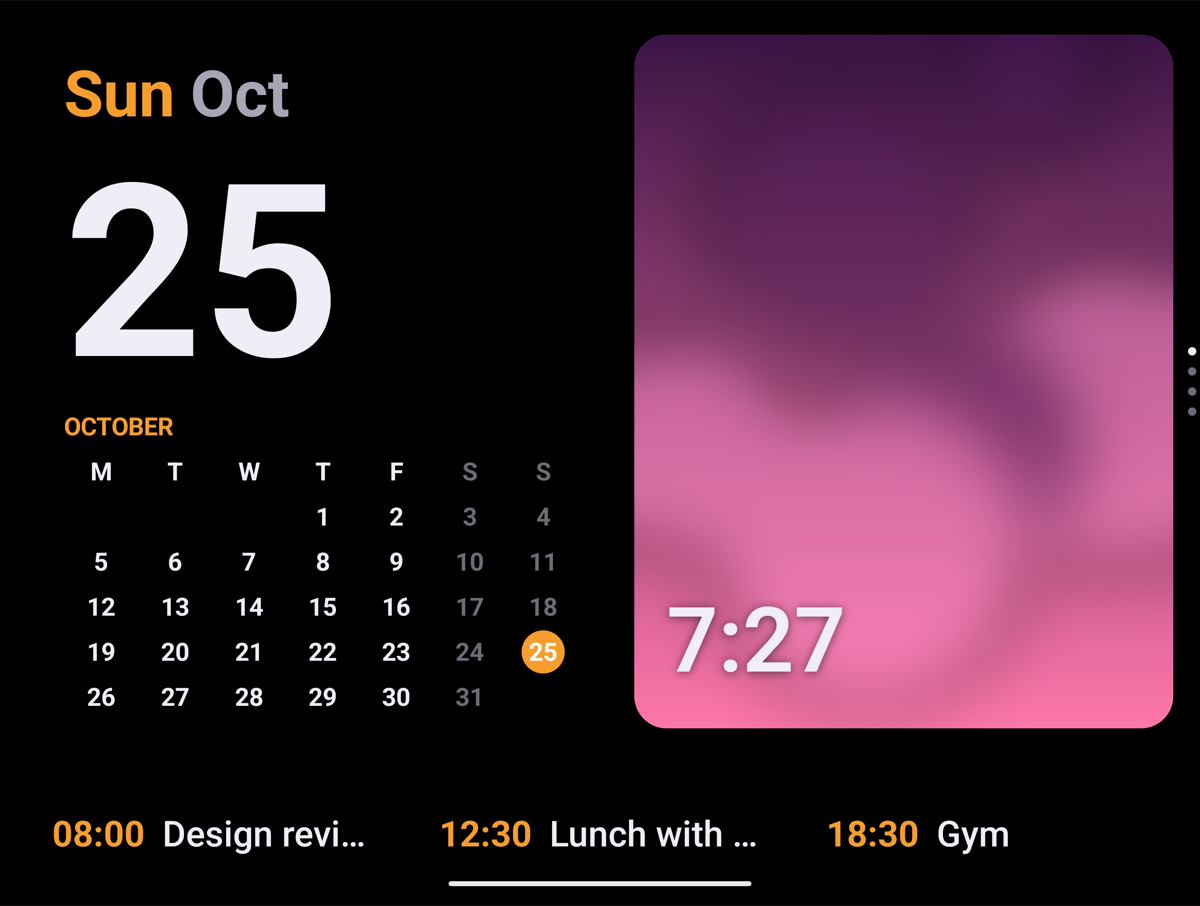
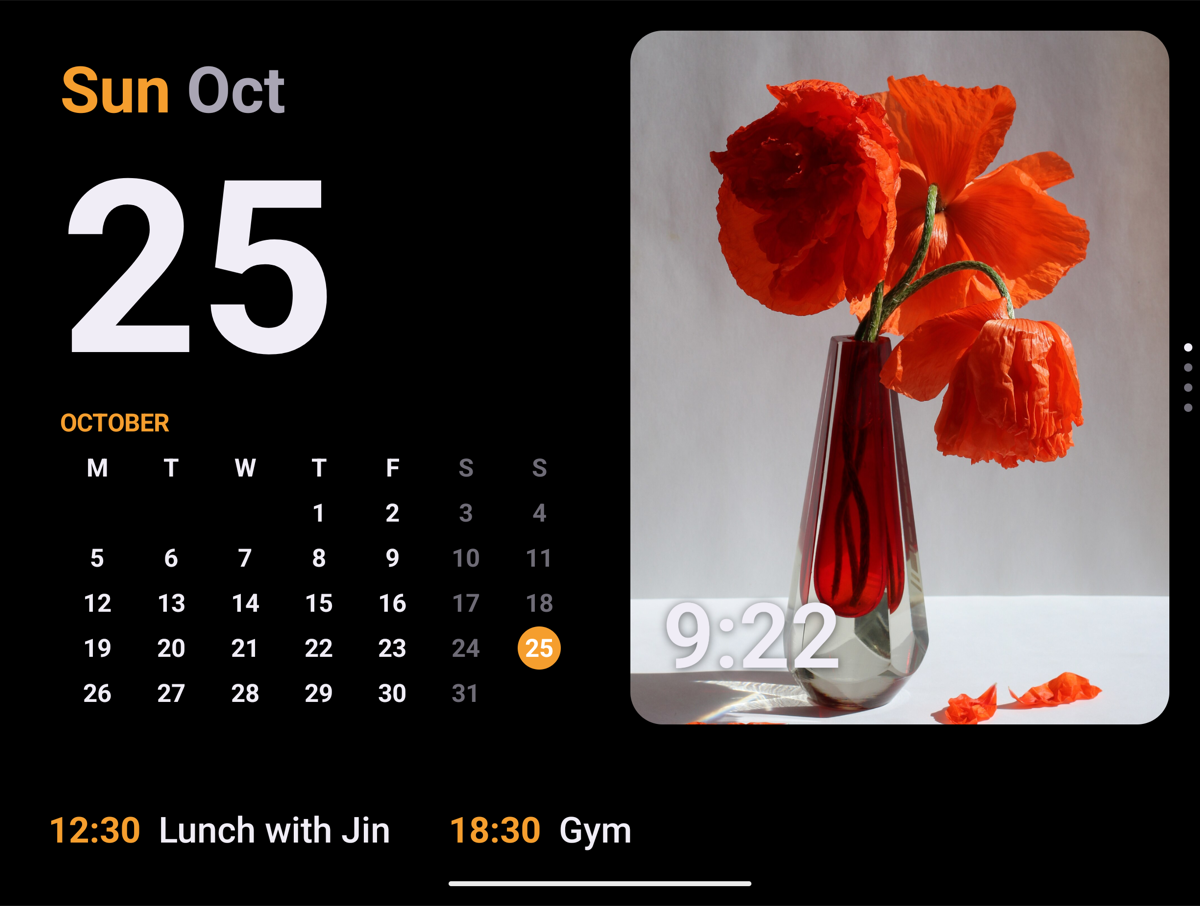
펼친 화면 사진 스크린샷을 실제 예시 사진(퍼블릭 도메인)으로 다시 찍고 소셜 미리보기 v2 추가

diff --git a/README.md b/README.md
@@ -11,7 +11,7 @@
 
 ## 스크린샷
 
-예시 데이터로 찍은 화면이에요. 일정과 사진은 예시이고, 날씨는 실제 서울 날씨예요.
+예시 데이터로 찍은 화면이에요. 일정과 사진은 예시이고, 날씨는 실제 서울 날씨예요. 사진 카드의 양귀비 사진은 George Chernilevsky의 퍼블릭 도메인 사진이에요([Wikimedia Commons](https://commons.wikimedia.org/wiki/File:Poppies_bouquet_2017_G1.jpg)).
 
 | 커버 화면 · 달력 + 시계 (기본) | 디지털 |
 |---|---|
